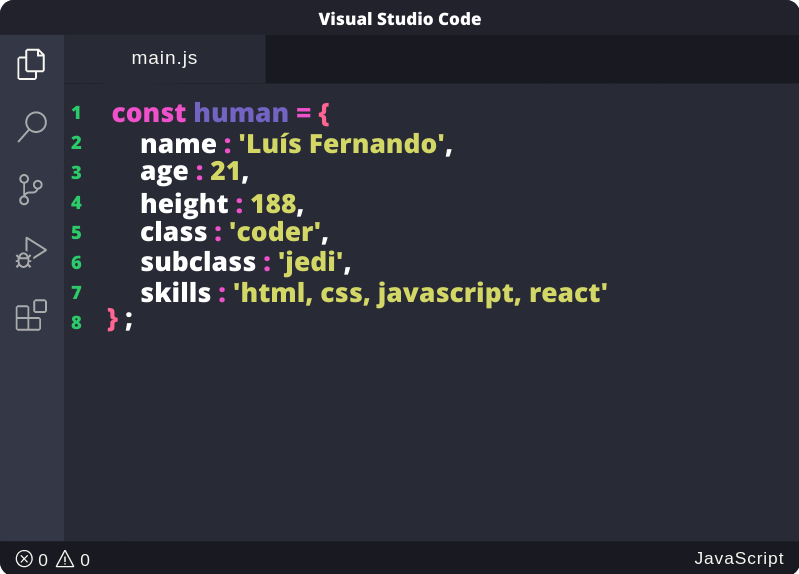
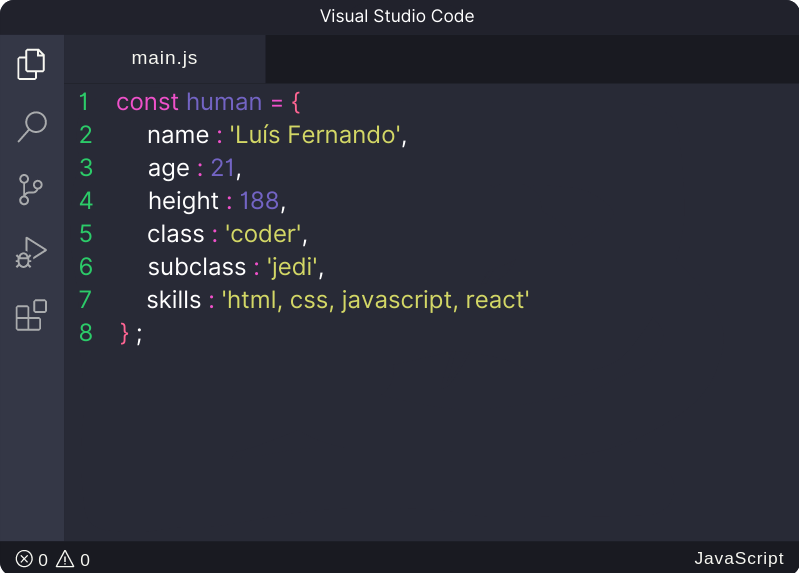
Formatado fontes do site

diff --git a/src/components/Presentation/Presentation.css b/src/components/Presentation/Presentation.css
@@ -25,6 +25,7 @@
     font-size: 14px;
     color: rgb(215, 215, 215);
     padding-top: 5px;
+    font-family: 'Gambetta', serif;
   }
   
   .name {
@@ -62,10 +63,11 @@
   }
   
   .presentation-text {
-    width: 270px;
+    width: 280px;
     font-size: 12px;
     color: rgb(215, 215, 215);
     padding-top: 5px;
+    font-family: 'Gambetta', serif;
   }
   
   .name {
@@ -108,6 +110,7 @@
     font-size: 13px;
     color: rgb(215, 215, 215);
     padding-top: 5px;
+    font-family: 'Gambetta', serif;
   }
   
   .name {
@@ -151,6 +154,7 @@
     font-size: 15px;
     color: rgb(215, 215, 215);
     padding-top: 5px;
+    font-family: 'Gambetta', serif;
   }
   
   .name {
@@ -189,10 +193,11 @@
 }
 
 .presentation-text {
-  width: 400px;
+  width: 420px;
   font-size: 18px;
   color: rgb(215, 215, 215);
   padding-top: 5px;
+  font-family: 'Gambetta', serif;
 }
 
 .name {
@@ -208,6 +213,11 @@
   color: #2ccb69;
   font-size: 45px;
 }
+}
+.ola h1 {
+  font-family: 'General Sans', sans-serif;
+}
 
-
+.typing {
+  font-family: 'Gambetta', serif;
 }

diff --git a/src/components/PortfolioNavigator/PortfolioNavigator.css b/src/components/PortfolioNavigator/PortfolioNavigator.css
@@ -117,8 +117,7 @@
 }
 
 .portfolio-navigator span {
-  font-family: 'Open Sans', sans-serif;
-  font-size: 80px;
+  font-size: 75px;
   line-height: 90px;
   font-weight: 600;
   color: #2ccb69;
@@ -126,10 +125,17 @@
 
 .next-prev {
   display: flex;
-  width: 100%;
+  width: 90px;
   height: 35px;
   background-color: #2c2c2c;
   border-radius: 23px;
   color: #bcbcbc;
 }
+}
+.next-prev p {
+  font-family: 'General Sans', sans-serif;
+}
+
+.align-vertical span {
+  font-family: 'General Sans', sans-serif;
 }

diff --git a/src/components/SectionTwo/SectionTwo.jsx b/src/components/SectionTwo/SectionTwo.jsx
@@ -27,7 +27,7 @@ function SectionTwo(props) {
     <section ref={props.scrollAbout} className="section-two">
       <div className='wrap-about'>
         <div className='container-object'>
-        <img src={teste} className='object-image'></img>
+          <img src={teste} className='object-image'></img>
         </div>
         <div className='container-about'>
           <h1>About me</h1>

diff --git a/index.html b/index.html
@@ -2,9 +2,10 @@
 <html lang="en">
   <head>
     <link
-      href="https://api.fontshare.com/v2/css?f[]=switzer@400&f[]=plein@700&display=swap"
+      href="https://api.fontshare.com/v2/css?f[]=gambetta@400&f[]=general-sans@600&display=swap"
       rel="stylesheet"
     />
+
     <link
       rel="apple-touch-icon"
       sizes="57x57"

diff --git a/src/components/ContactInfo/ContactInfo.css b/src/components/ContactInfo/ContactInfo.css
@@ -523,8 +523,6 @@
     height: 22px;
   }
 }
-
-
 @keyframes apears {
   from {
     opacity: 0;
@@ -532,6 +530,13 @@
   to {
     opacity: 1;
   }
+}
+.container-contact-info h2 {
+  font-family: 'General Sans', sans-serif;
+}
+
+.container-contact-info{
+  font-family: 'Gambetta', serif;
 }
 
 

diff --git a/src/components/Logo/Logo.css b/src/components/Logo/Logo.css
@@ -74,8 +74,6 @@
 @media only screen and (min-width: 1200px) { 
 .container-logo {
   height: 70px;
-  font-family: 'Switzer', sans-serif;
-
 }
 
 .logo {
@@ -86,4 +84,7 @@
 .text-green {
   color: #2ccb69;
 }
+}
+.container-logo {
+  font-family: 'General Sans', sans-serif;
 }

diff --git a/src/components/Projects/Projects.css b/src/components/Projects/Projects.css
@@ -281,3 +281,12 @@
   0% {opacity: 0;}
   100% {opacity: 1;}
   } 
+
+.tittle-project {
+  font-family: 'General Sans', sans-serif;
+  padding-bottom: 5px;
+}
+
+.description {
+  font-family: 'Gambetta', serif;
+}

diff --git a/src/components/SectionTwo/SectionTwo.css b/src/components/SectionTwo/SectionTwo.css
@@ -201,3 +201,12 @@
   }
 }
 
+.container-about h1 {
+  font-family: 'General Sans', sans-serif;
+}
+
+.wrap-about {
+  font-family: 'Gambetta', serif;
+
+}
+

diff --git a/src/components/Menu/Menu.css b/src/components/Menu/Menu.css
@@ -194,3 +194,6 @@
   transform: scale(1, 1);        
 }
 }
+.container-menu a {
+  font-family: 'General Sans', sans-serif;
+}
